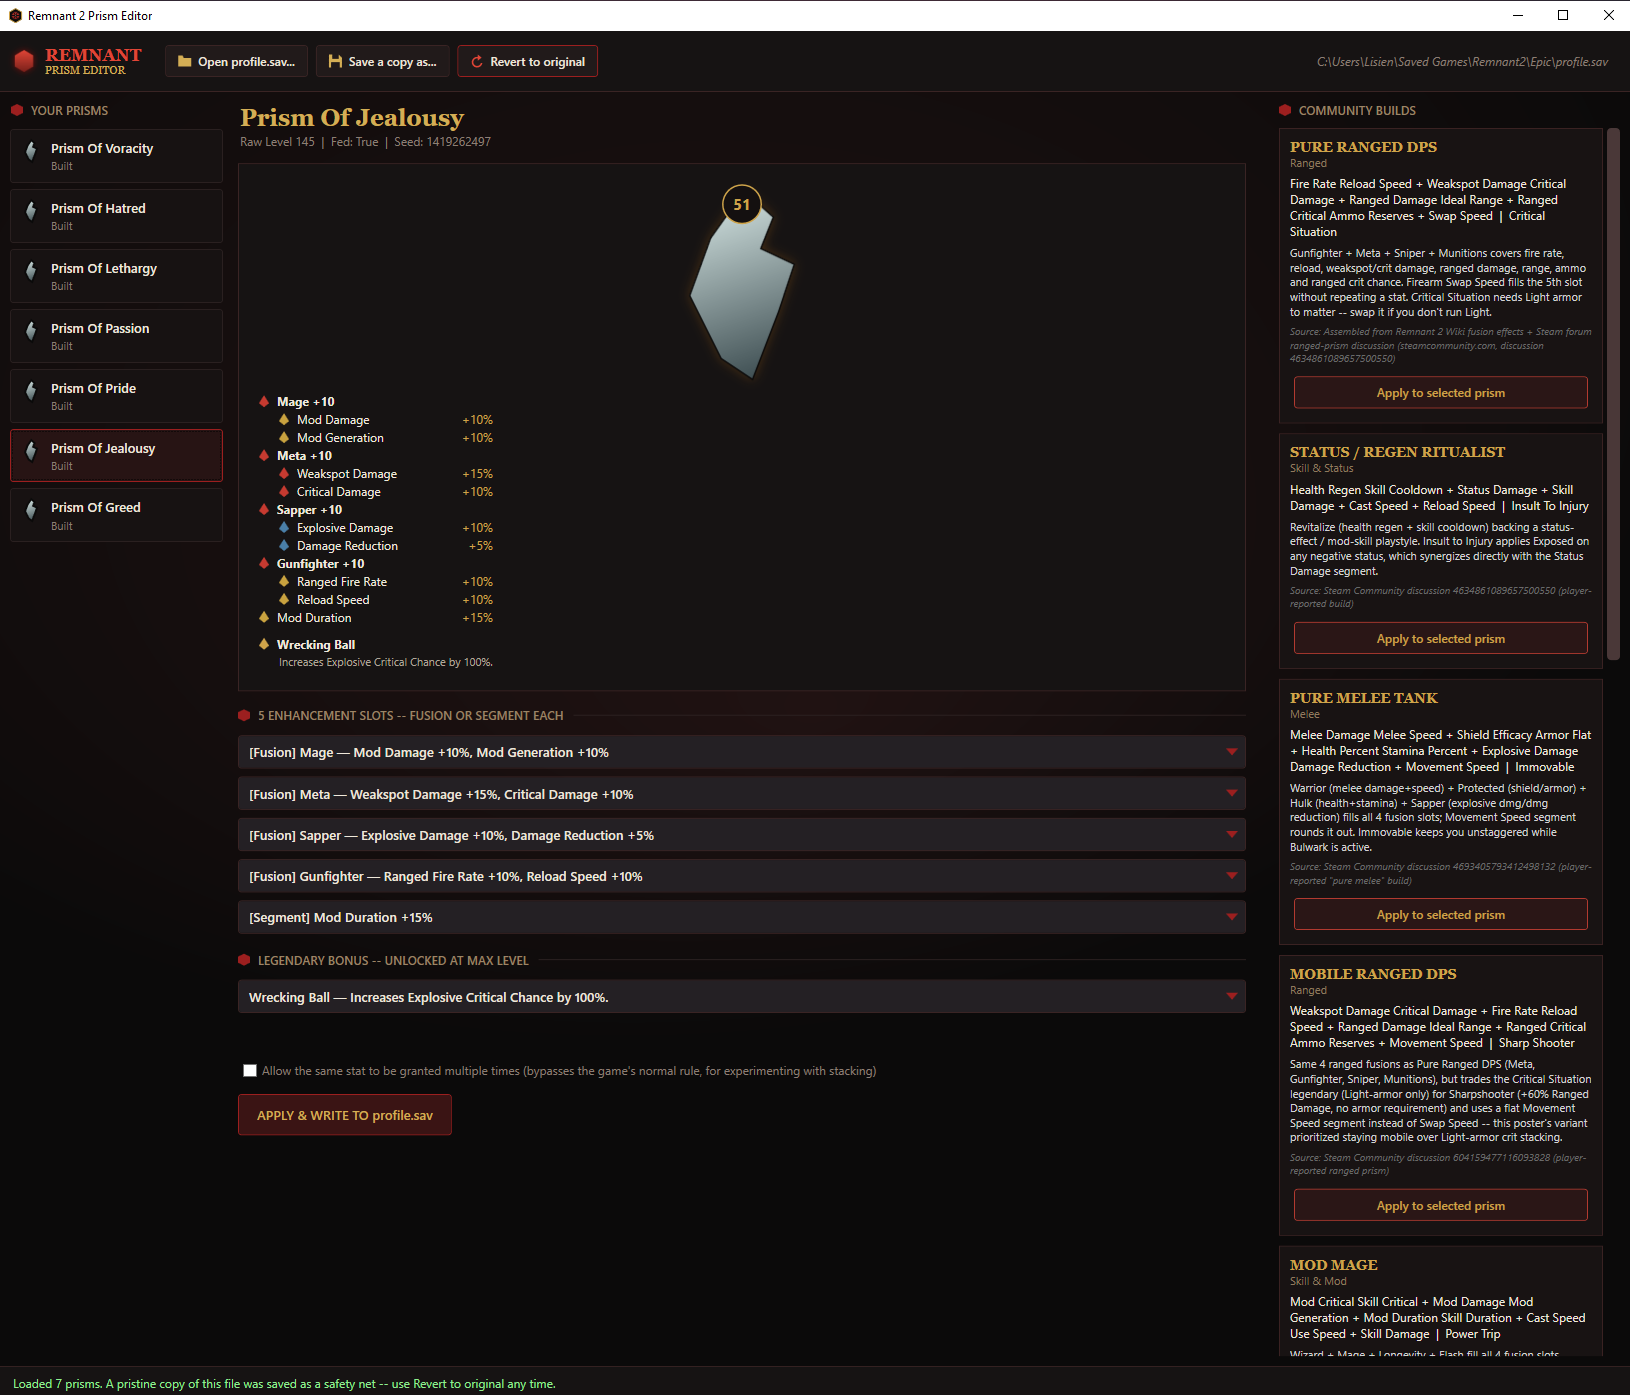
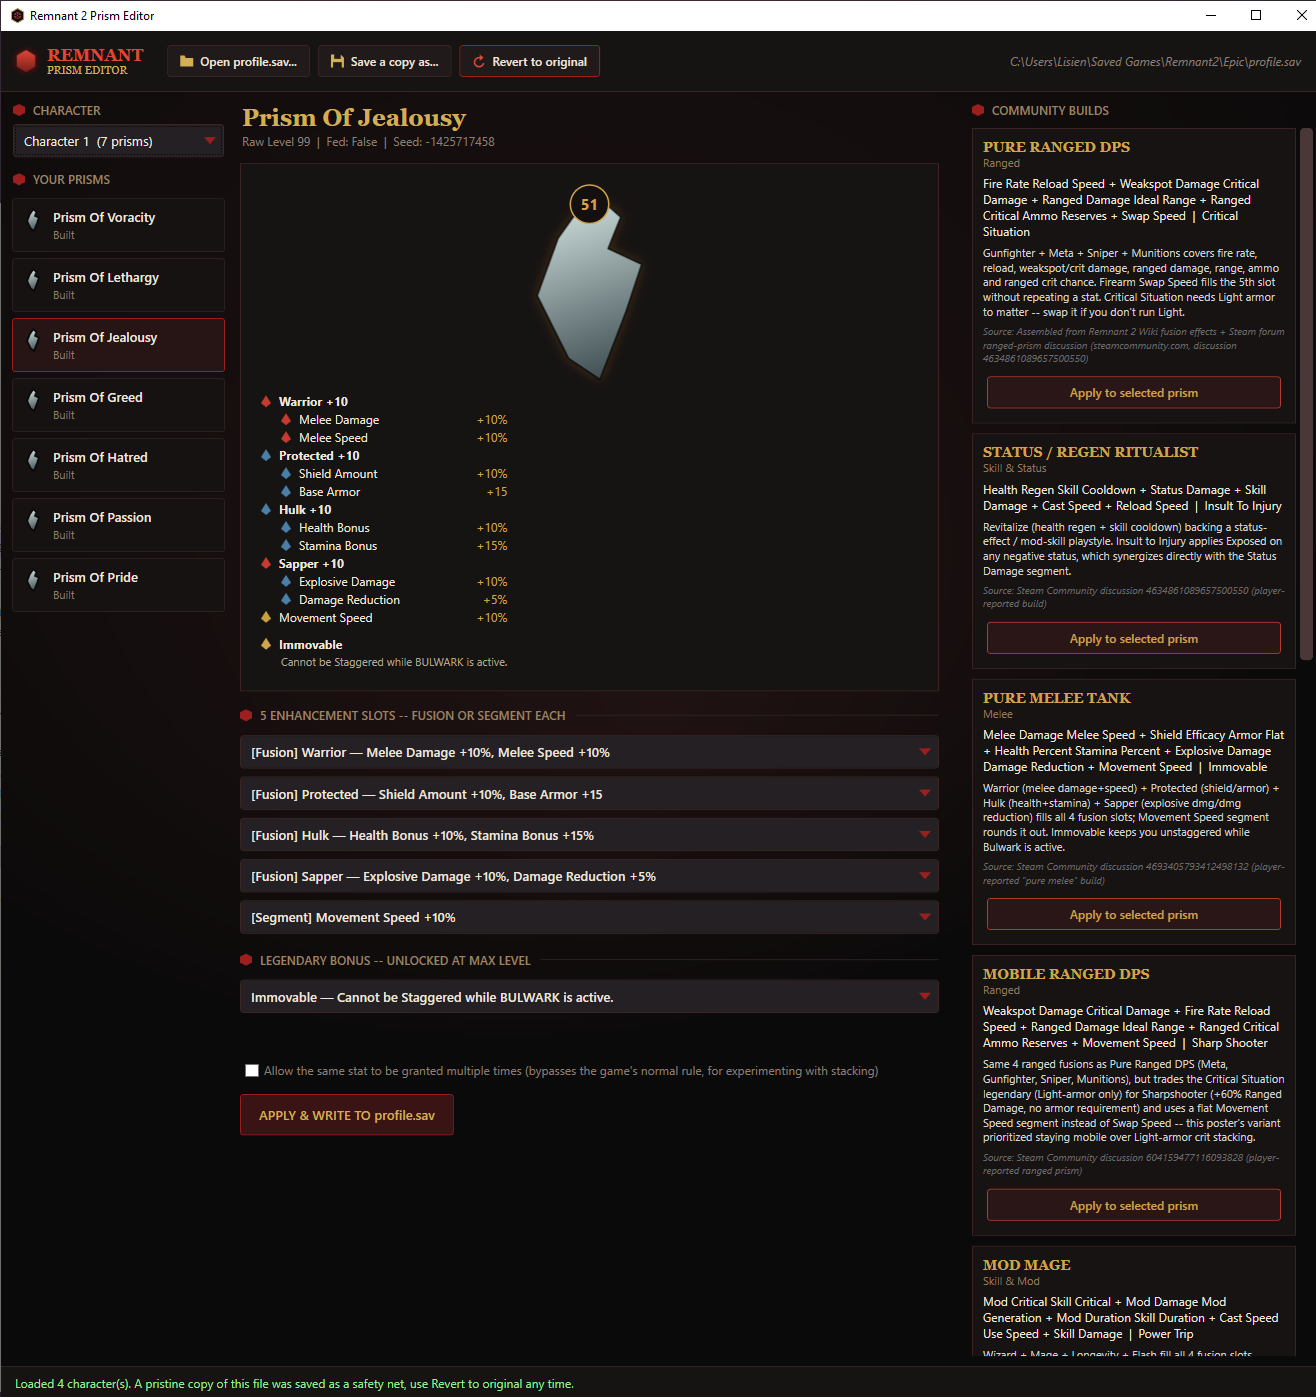
Update screenshot and document the character picker in the README

diff --git a/README.md b/README.md
@@ -27,8 +27,12 @@ No installation needed. Unzip it anywhere and run `PrismEditor.exe`.
 
 ## What it does
 
-- Reads all 7 of your prisms (Hatred, Lethargy, Passion, Pride, Jealousy,
-  Voracity, Greed) straight out of `profile.sav`.
+- Reads your prisms (Hatred, Lethargy, Passion, Pride, Jealousy, Voracity,
+  Greed) straight out of `profile.sav`.
+- **Works on every character in the save.** Saves can hold several
+  characters, each with their own prisms. A character picker at the top of
+  the left column lists them all (with a prism count for each), and editing
+  one character never touches the others.
 - Lets you pick any of the game's 23 real Fusions, 45 Segments, and 42
   Legendary Bonuses for each prism's 6 slots, pulled live from the game's
   own item database instead of a hardcoded list that can go stale after a
@@ -55,7 +59,8 @@ No installation needed. Unzip it anywhere and run `PrismEditor.exe`.
 3. Click **Open profile.sav...** and pick your save file. It's usually at:
    - Epic Games: `%USERPROFILE%\Saved Games\Remnant2\<platform>\profile.sav`
    - Steam: `%LocalAppData%\Remnant2\Saved\SaveGames\profile.sav`
-4. Pick a prism from the list on the left.
+4. Choose a character from the **Character** dropdown (if your save has
+   more than one), then pick a prism from the list below it.
 5. Either:
    - Pick a fusion/segment for each of the 5 enhancement slots and a
      legendary bonus yourself, or
